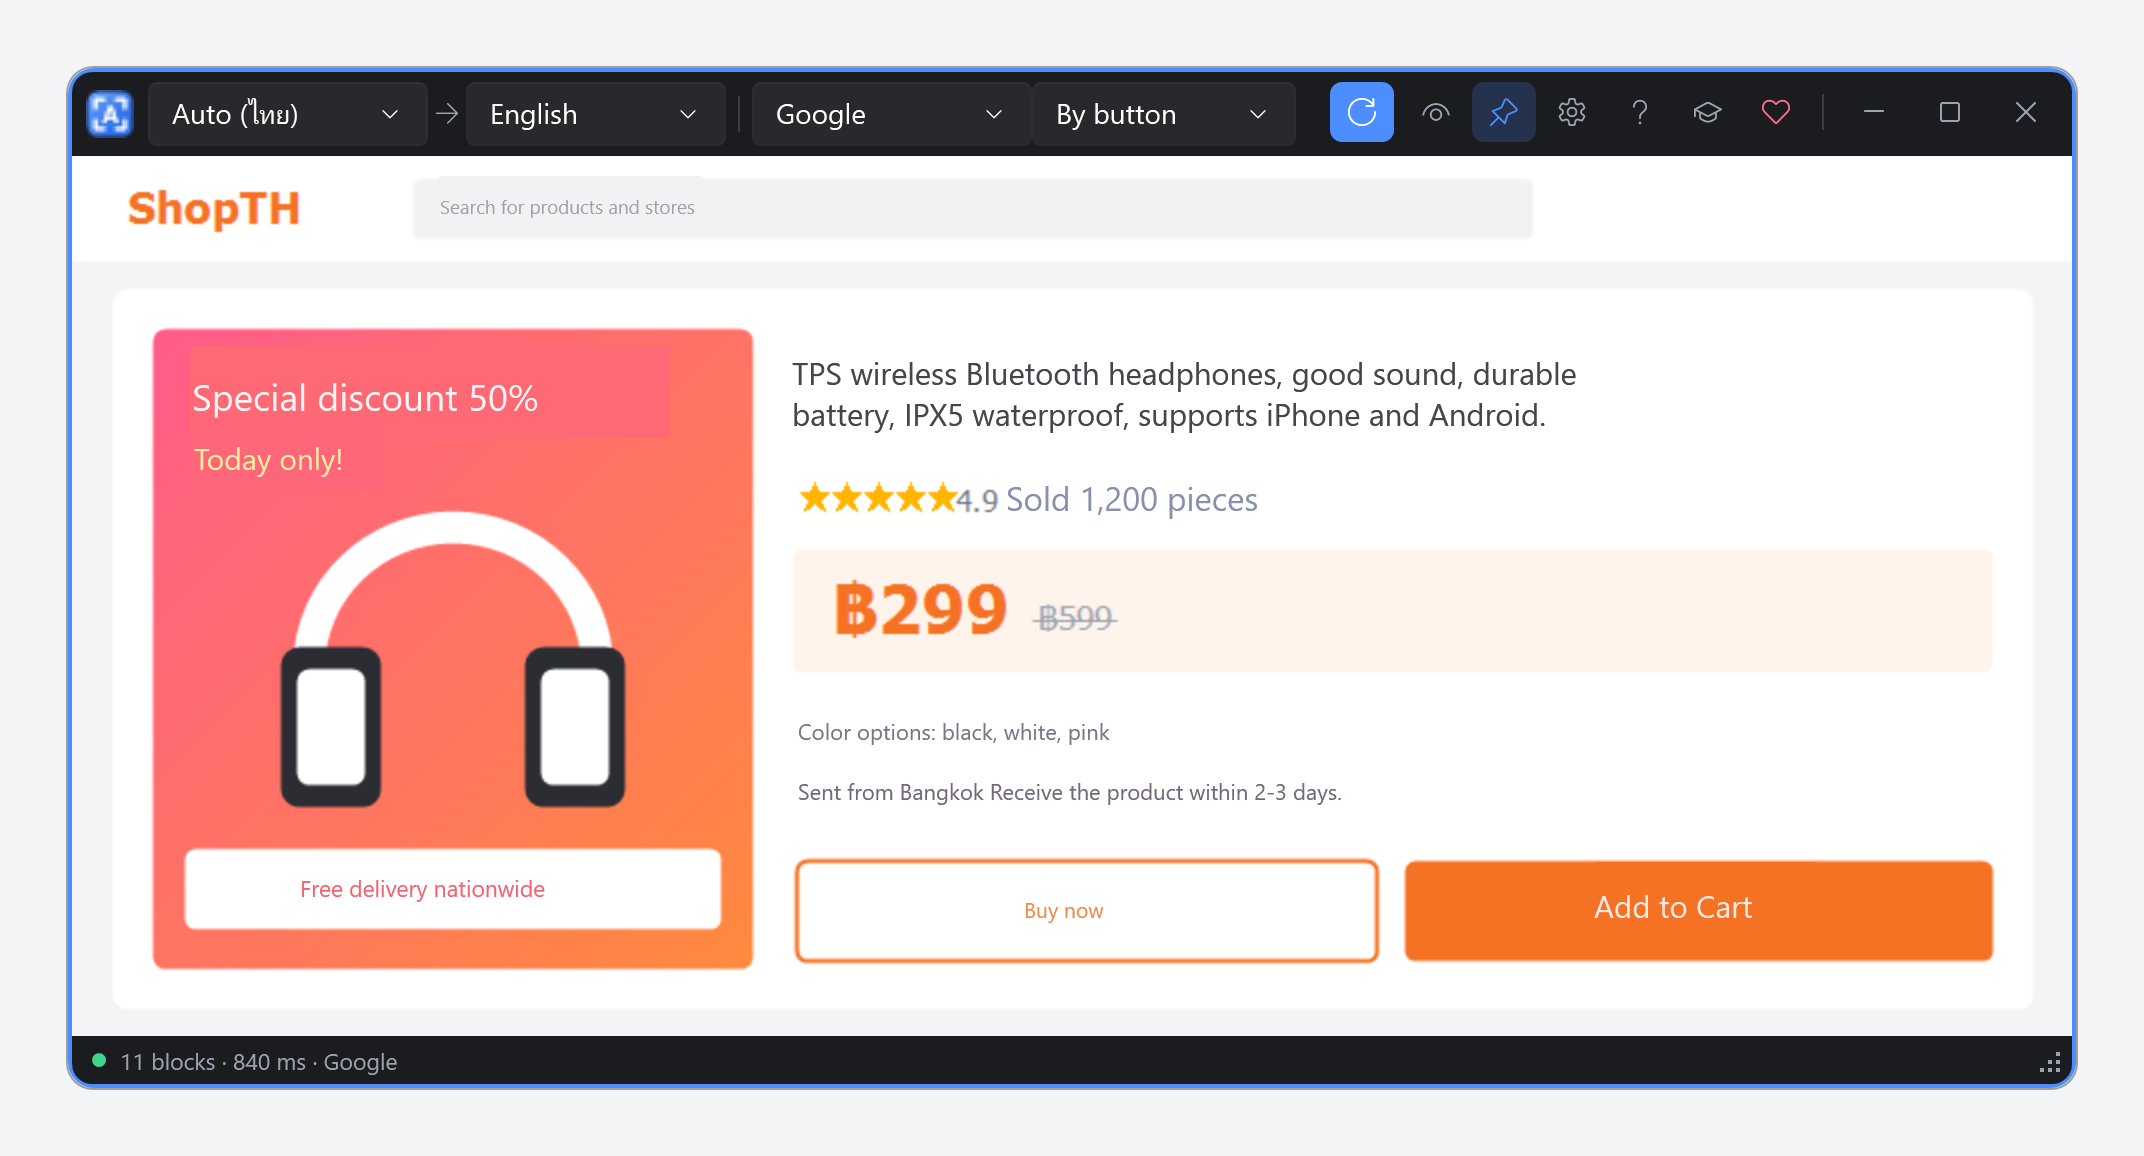
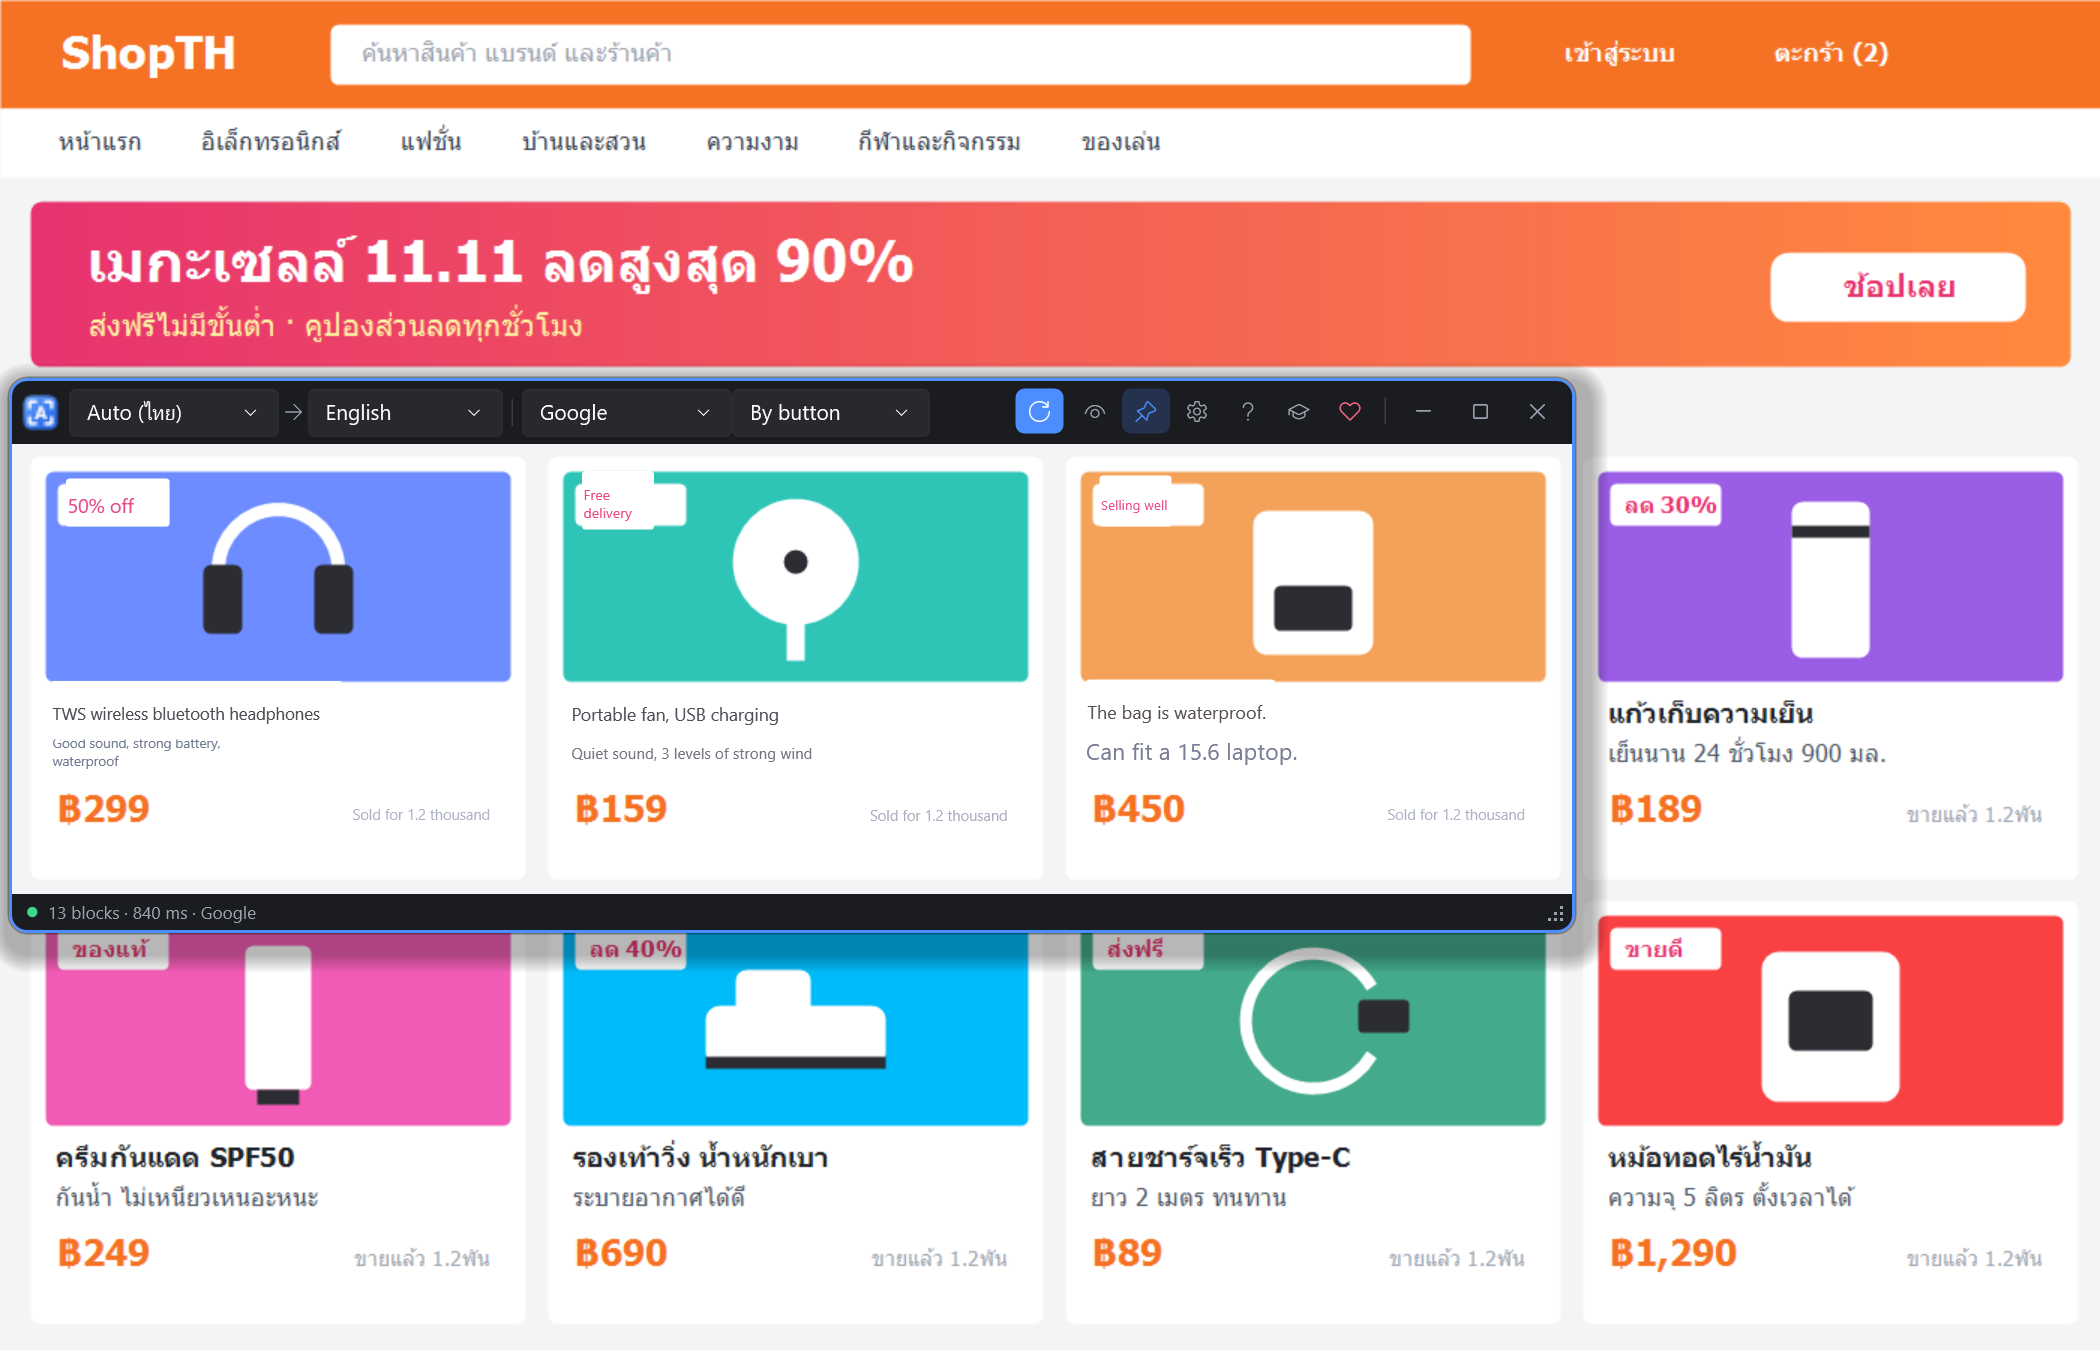
README: how to run, clearer screenshot, quieter donation note
- "How to run" steps (EN/RU), including the SmartScreen prompt.
- Screenshot now shows the frame over part of a Thai shop page: English
  inside the frame, the rest of the page untouched.
- Donation links reduced to one line at the end; removed FUNDING.yml,
  badges and issue forms.
- Overlay paints blocks bottom-up so descenders aren't covered by the
  background of the block below.

diff --git a/src/GlassTranslate/App.Screenshot.cs b/src/GlassTranslate/App.Screenshot.cs
@@ -10,30 +10,31 @@ namespace GlassTranslate;
 
 public partial class App
 {
-    /// <summary>Builds the README picture: the real window placed over a page, with the page really
-    /// recognized and translated. Composed offscreen, since the overlay is hidden from screen capture.</summary>
-    private async Task ReadmeShotAsync(string pagePath, string output, string engineId, string target)
+    /// <summary>Builds the README picture: the real window placed over part of a page, with that part really
+    /// recognized and translated while the rest of the page stays as it is. Composed offscreen, since the
+    /// overlay is hidden from screen capture.</summary>
+    private async Task ReadmeShotAsync(string pagePath, string output, string engineId, string target, Int32Rect area)
     {
         var log = new List<string>();
         try
         {
             var page = new FormatConvertedBitmap(BitmapFrame.Create(new Uri(Path.GetFullPath(pagePath))), PixelFormats.Bgra32, null, 0);
-            var data = new byte[page.PixelWidth * page.PixelHeight * 4];
-            page.CopyPixels(data, page.PixelWidth * 4, 0);
-            var frame = new Frame(page.PixelWidth, page.PixelHeight, data);
+            var crop = new CroppedBitmap(page, area);
+            var data = new byte[area.Width * area.Height * 4];
+            crop.CopyPixels(data, area.Width * 4, 0);
+            var frame = new Frame(area.Width, area.Height, data);
 
-            // Size the window so its transparent area exactly fits the page.
+            // Size the window so its transparent area exactly fits the chosen part of the page.
             var w = new MainWindow { ShowActivated = false, Left = -6000, Top = 0, Width = 960, Height = 600 };
             w.Show();
             w.Left = -6000;
             await Task.Delay(500);
-            w.Width += page.PixelWidth - w.Hole.ActualWidth;
-            w.Height += page.PixelHeight - w.Hole.ActualHeight;
+            w.Width += area.Width - w.Hole.ActualWidth;
+            w.Height += area.Height - w.Hole.ActualHeight;
             await Task.Delay(500);
 
             using var ocr = new OcrEngine();
             var regions = TextLayout.Group(frame, ocr.Recognize(frame, ModelStore.AutoGroups()));
-            var sw = System.Diagnostics.Stopwatch.StartNew();
             var translated = await TranslatorRegistry.Get(engineId).TranslateAsync(regions.Select(r => r.Text).ToList(), null, target, default);
             var keep = Enumerable.Range(0, regions.Count)
                 .Where(i => !System.Text.RegularExpressions.Regex.IsMatch(regions[i].Text, @"^[A-Z0-9\W]{1,5}$")
@@ -42,13 +43,14 @@ public partial class App
             foreach (var i in keep) log.Add($"{regions[i].Text} => {translated[i].Text}");
 
             w.UpdateDetected("th");
-            w.SetStatus(Strings.Format("Done", regions.Count, 840) + " · " + TranslatorRegistry.Get(engineId).DisplayName, GlassTranslate.MainWindow.StatusKind.Ok);
+            w.SetStatus(Strings.Format("Done", regions.Count, 840) + " · " + TranslatorRegistry.Get(engineId).DisplayName,
+                GlassTranslate.MainWindow.StatusKind.Ok);
             await Task.Delay(300);
 
             var root = (FrameworkElement)w.Content;
             var hole = w.Hole.TranslatePoint(new Point(0, 0), root);
             double ww = root.ActualWidth, wh = root.ActualHeight;
-            const double margin = 28;
+            var windowAt = new Point(area.X - hole.X, area.Y - hole.Y);
 
             var translations = new Canvas { Width = frame.Width, Height = frame.Height };
             OverlayWindow.Paint(translations, 1.0, frame, keep.Select(i => regions[i]).ToList(),
@@ -56,24 +58,30 @@ public partial class App
             translations.Measure(new Size(frame.Width, frame.Height));
             translations.Arrange(new Rect(0, 0, frame.Width, frame.Height));
 
-            const double scale = 2; // crisp on high-DPI screens; GitHub scales it down
-            var windowShot = new RenderTargetBitmap((int)(ww * scale), (int)(wh * scale), 96 * scale, 96 * scale, PixelFormats.Pbgra32);
-            windowShot.Render(root);
-            var textShot = new RenderTargetBitmap((int)(frame.Width * scale), (int)(frame.Height * scale), 96 * scale, 96 * scale, PixelFormats.Pbgra32);
-            textShot.Render(translations);
+            const double scale = 1.5; // crisp enough on high-DPI screens; GitHub scales it down
+            RenderTargetBitmap Shot(Visual v, double width, double height)
+            {
+                var b = new RenderTargetBitmap((int)(width * scale), (int)(height * scale), 96 * scale, 96 * scale, PixelFormats.Pbgra32);
+                b.Render(v);
+                return b;
+            }
+            var windowShot = Shot(root, ww, wh);
+            var textShot = Shot(translations, frame.Width, frame.Height);
 
             var dv = new DrawingVisual();
             using (var dc = dv.RenderOpen())
             {
-                var pageColor = new SolidColorBrush(Color.FromRgb(0xF3, 0xF4, 0xF6));
-                dc.DrawRectangle(pageColor, null, new Rect(0, 0, ww + 2 * margin, wh + 2 * margin));
-                var origin = new Point(margin + hole.X, margin + hole.Y);
-                dc.DrawImage(page, new Rect(origin, new Size(frame.Width, frame.Height)));
-                dc.DrawImage(textShot, new Rect(origin, new Size(frame.Width, frame.Height)));
-                dc.DrawImage(windowShot, new Rect(margin, margin, ww, wh));
+                dc.DrawImage(page, new Rect(0, 0, page.PixelWidth, page.PixelHeight));
+                // Soft shadow so the floating window reads as a separate layer above the page.
+                for (int k = 1; k <= 12; k++)
+                    dc.DrawRoundedRectangle(new SolidColorBrush(Color.FromArgb(7, 0, 0, 0)), null,
+                        new Rect(windowAt.X - k + 4, windowAt.Y - k + 8, ww + 2 * k, wh + 2 * k), 14 + k, 14 + k);
+                // The shadow must not darken what shows through the window's transparent middle.
+                dc.DrawImage(crop, new Rect(area.X, area.Y, area.Width, area.Height));
+                dc.DrawImage(textShot, new Rect(area.X, area.Y, area.Width, area.Height));
+                dc.DrawImage(windowShot, new Rect(windowAt, new Size(ww, wh)));
             }
-            var final = new RenderTargetBitmap((int)((ww + 2 * margin) * scale), (int)((wh + 2 * margin) * scale), 96 * scale, 96 * scale, PixelFormats.Pbgra32);
-            final.Render(dv);
+            var final = Shot(dv, page.PixelWidth, page.PixelHeight);
             var enc = new PngBitmapEncoder();
             enc.Frames.Add(BitmapFrame.Create(final));
             using (var fs = File.Create(output)) enc.Save(fs);

diff --git a/src/GlassTranslate/App.xaml.cs b/src/GlassTranslate/App.xaml.cs
@@ -45,11 +45,13 @@ public partial class App : Application
             _ = SnapshotAsync(w, shot, e.Args.Length > 2 ? e.Args[2] : "");
             return;
         }
-        // README picture: GlassTranslate.exe --readme-shot page.png out.png engine targetLang
-        if (e.Args is ["--readme-shot", var page, var picture, var shotEngine, var shotTarget])
+        // README picture: GlassTranslate.exe --readme-shot page.png out.png engine targetLang x y width height
+        // (the rectangle is the part of the page the frame covers)
+        if (e.Args is ["--readme-shot", var page, var picture, var shotEngine, var shotTarget, var ax, var ay, var aw, var ah])
         {
             ShutdownMode = ShutdownMode.OnExplicitShutdown;
-            _ = ReadmeShotAsync(page, picture, shotEngine, shotTarget);
+            _ = ReadmeShotAsync(page, picture, shotEngine, shotTarget,
+                new Int32Rect(int.Parse(ax), int.Parse(ay), int.Parse(aw), int.Parse(ah)));
             return;
         }
         StartupUri = new Uri("MainWindow.xaml", UriKind.Relative);

diff --git a/src/GlassTranslate/OverlayWindow.cs b/src/GlassTranslate/OverlayWindow.cs
@@ -52,7 +52,8 @@ public sealed class OverlayWindow : Window
         IReadOnlyList<string> translations, FontFamily font, double fixedSize)
     {
         canvas.Children.Clear();
-        for (int i = 0; i < blocks.Count; i++)
+        // Bottom to top, so each block's text is drawn over the extra background of the block below it.
+        foreach (int i in Enumerable.Range(0, blocks.Count).OrderByDescending(i => blocks[i].Box.Y))
         {
             var b = blocks[i];
             var (bg, fg) = PickColors(frame, b.Box);

diff --git a/readme.md b/readme.md
@@ -1,11 +1,5 @@
 # Glass Translate
 
-[![Release](https://img.shields.io/github/v/release/dmakhazen/glass-translate?label=download)](../../releases/latest)
-[![Downloads](https://img.shields.io/github/downloads/dmakhazen/glass-translate/total)](../../releases)
-![Windows 10/11](https://img.shields.io/badge/Windows-10%20%7C%2011-0078D4)
-[![Ko-fi](https://img.shields.io/badge/Ko--fi-support-FF5E5B?logo=ko-fi&logoColor=white)](https://ko-fi.com/dmakhazen)
-[![Boosty](https://img.shields.io/badge/Boosty-support-F15F2C)](https://boosty.to/dmakhazen/donate)
-
 A transparent frame for Windows that translates any text under it, including text inside images, and draws the translation right over the original.
 
 ![Glass Translate over a Thai shop page, translated into English](docs/screenshot.png)
@@ -16,15 +10,21 @@ A transparent frame for Windows that translates any text under it, including tex
 
 ## English
 
+### How to run
+1. Download `GlassTranslate-<version>-portable-win-x64.zip` from [Releases](../../releases/latest).
+2. Unzip it anywhere, for example to `Documents\GlassTranslate`.
+3. Run `GlassTranslate.exe`. Nothing to install; settings are saved next to the exe.
+4. If Windows shows “Windows protected your PC”, click **More info → Run anyway** (the app isn't code-signed yet).
+5. A short tour shows the controls. Then put the frame over any text: it's translated in place every few seconds, or press the blue ⟳ button.
+
+Requirements: Windows 10 (2004+) or 11, 64-bit. Internet for the online engines.
+
 ### What it does
 - Put the frame over a web page, picture, game or PDF and the text inside is translated in place.
 - Reads text from the screen (OCR), so text in images works too. Doesn't depend on Windows language packs.
 - Free engines, no keys or sign-up: **Google**, **Bing**, **MyMemory**. Optional **Ollama** (local AI, offline).
 - Source language: auto-detect or fixed. 22 target languages. Interface in 10 languages.
 - Translates every 1–10 s or on a button. A short tour explains the controls on first start.
-
-### Download
-Grab the zip from [Releases](../../releases), unzip and run `GlassTranslate.exe`. It's portable: nothing to install, settings are saved next to the exe. Windows 10 (2004+) or 11, x64.
 
 ### Limitations
 - Google, Bing and MyMemory are free but unofficial endpoints: they can slow down or refuse for a while. Switch the engine if you see errors.
@@ -33,12 +33,18 @@ Grab the zip from [Releases](../../releases), unzip and run `GlassTranslate.exe`
 - Thai, English, Cyrillic and Latin are built in; Chinese, Japanese, Korean, Greek, Hindi and Arabic download once on first use.
 - Translations don't show up in screenshots (the overlay is hidden from screen capture so it can re-read the page).
 
-### Support
-If it helps you: [Ko-fi](https://ko-fi.com/dmakhazen) · [Boosty](https://boosty.to/dmakhazen/donate)
-
 ---
 
 ## Русский
+
+### Как запустить
+1. Скачайте `GlassTranslate-<версия>-portable-win-x64.zip` в [Releases](../../releases/latest).
+2. Распакуйте в любую папку, например `Документы\GlassTranslate`.
+3. Запустите `GlassTranslate.exe`. Устанавливать ничего не нужно, настройки хранятся рядом с exe.
+4. Если Windows покажет «Система Windows защитила ваш компьютер», нажмите **Подробнее → Выполнить в любом случае** (у программы пока нет цифровой подписи).
+5. Короткий тур покажет все элементы. Дальше наведите рамку на любой текст: перевод появится на месте каждые несколько секунд или по синей кнопке ⟳.
+
+Требования: Windows 10 (2004+) или 11, 64-бит. Для онлайн-сервисов нужен интернет.
 
 ### Что умеет
 - Наведите рамку на страницу, картинку, игру или PDF, и текст внутри переведётся прямо на месте.
@@ -47,18 +53,12 @@ If it helps you: [Ko-fi](https://ko-fi.com/dmakhazen) · [Boosty](https://boosty
 - Язык оригинала определяется автоматически или задаётся вручную. 22 языка перевода, интерфейс на 10 языках.
 - Перевод каждые 1–10 секунд или по кнопке. При первом запуске короткий тур объясняет все элементы.
 
-### Скачать
-Скачайте zip в [Releases](../../releases), распакуйте и запустите `GlassTranslate.exe`. Программа portable: ничего не устанавливается, настройки хранятся рядом с exe. Windows 10 (2004+) или 11, x64.
-
 ### Ограничения
 - Google, Bing и MyMemory бесплатны, но это неофициальные адреса: иногда они тормозят или временно отказывают. При ошибках смените сервис.
 - Текст из рамки отправляется выбранному онлайн-сервису (кроме Ollama).
 - Очень мелкий, размытый или вертикальный текст не распознаётся.
 - Тайский, английский, кириллица и латиница встроены; китайский, японский, корейский, греческий, хинди и арабский скачиваются один раз при первом выборе.
 - Перевод не виден на скриншотах (слой с переводом скрыт от захвата экрана, чтобы программа могла перечитывать страницу).
-
-### Поддержать
-Если программа помогает: [Ko-fi](https://ko-fi.com/dmakhazen) · [Boosty](https://boosty.to/dmakhazen/donate)
 
 ---
 
@@ -76,3 +76,7 @@ Diagnostics: `GLASS_LOG=1` writes `glass.log` next to the exe.
 
 ## Credits
 OCR: [PaddleOCR](https://github.com/PaddlePaddle/PaddleOCR) PP-OCRv5 models (Apache-2.0), ONNX conversions from [monkt/paddleocr-onnx](https://huggingface.co/monkt/paddleocr-onnx), run with [ONNX Runtime](https://github.com/microsoft/onnxruntime) (MIT).
+
+---
+
+If you find it useful / Если пригодилось: [Ko-fi](https://ko-fi.com/dmakhazen) · [Boosty](https://boosty.to/dmakhazen/donate)
